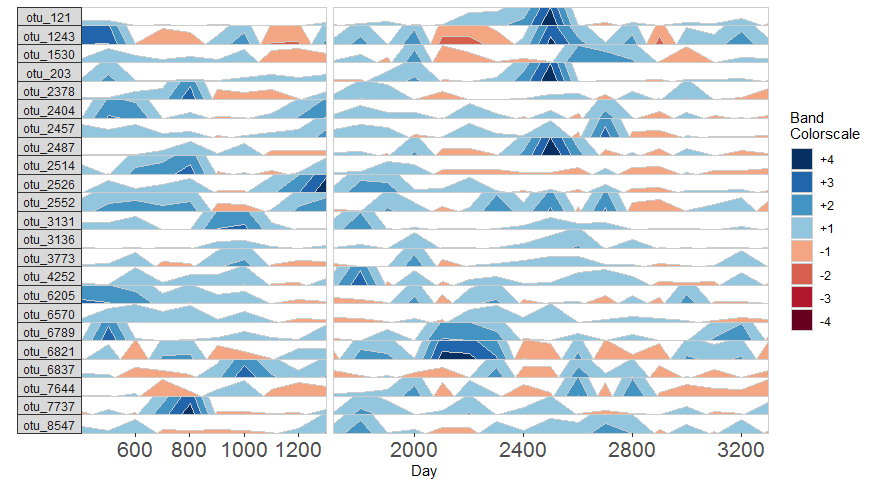
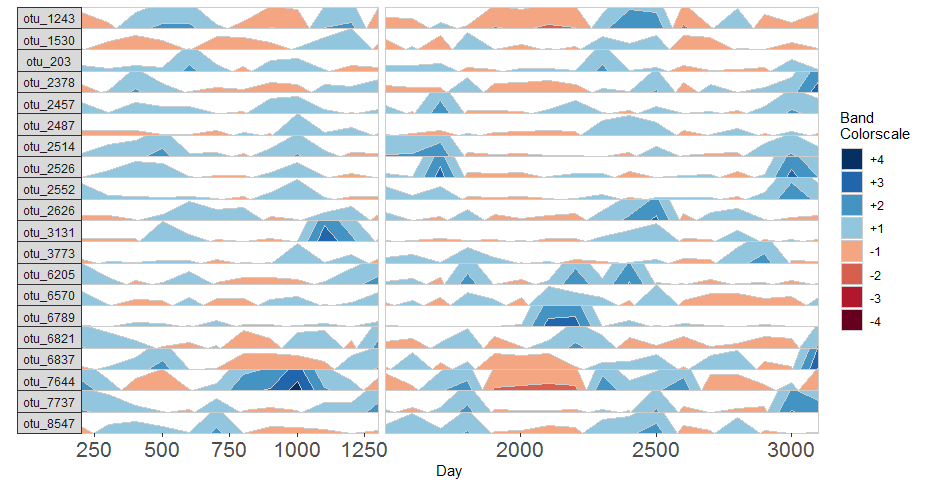
Reorganize 'Additional Modifications' and 'Irregular Data' sections of website

diff --git a/index.md b/index.md
@@ -278,12 +278,7 @@ paramList <- prepanel(otudata = dummyOTU, metadata = dummyMetadata, singleVarOTU
 
 horizonplot(paramList)
 
-## Select a subset of all subjects
-paramList <- prepanel(otudata = dummyOTU, metadata = dummyMetadata, singleVarOTU = "otu_1243", subj = c("subject_1", "subject_2", "subject_3"))
-
-horizonplot(paramList)
-
-## Subject facets will be arranged according to the order specified to `subj`
+## Select a subset of all subjects and arrange facet order
 paramList <- prepanel(otudata = dummyOTU, metadata = dummyMetadata, singleVarOTU = "otu_1243", subj = c("subject_2", "subject_1", "subject_3"))
 
 horizonplot(paramList)
@@ -300,9 +295,11 @@ Based on this graph from artificial data we might then infer that subjects 1, 2 
 
 ### Additional Modifications of the Horizon Plot
 
-We can add several modifications to the horizon plot to emphasize different aspects of our longitudinal data.  
+The origin value of an OTU defines its baseline, i.e. the base of the first positive band, where value=0. By default, the origin for each OTU is calculated as the median value of that OTU across all samples, so blue bands reflect abundance above the median, while red bands indicate abundance below the median. 4 positive and 4 negative bands are used, where band widths represent quartiles above and below the median relative to the extreme value for that OTU. This means that by default, if across all samples the median relative abundance of otu_121 was 10%, the maximum relative abundance of otu_121 in any sample was 30%, and the minimum relative abundance was 0%, then each band colorscale represents an abundance range of ((30-10)/4) = 5%. Thus, a band colorscale value of +2 for otu_121 at timepoint x indicates that otu_121 had a relative abundance within (min = 10 + (30-10)/4, max = 10 + 2*((30-10)/4)) = 15-20% at timepoint x, while a band colorscale value of -2 for otu_121 at timepoint y indicates that otu_121 had a relative abundance ranging from 0-5% at timepoint y. Since the distance between the maximum and the origin (30-10% = 20%) is greater than the distance between the minimum and the origin (10-0% = 10%) for otu_121, there are no timepoints at a band colorscale of -3 or -4. By scaling within each OTU, the dynamics of multiple OTUs that may vary in median abundance by orders of magnitude can be visualized on the same graph. 
 
-First, we change the number of positive bands to segment data into.
+However, we can add several modifications to the horizon plot to emphasize different aspects of our longitudinal data.  
+
+First, we change the number of positive bands into which data is segmented.
 
 ```
 ## Use three horizon bands 
@@ -315,7 +312,7 @@ horizonplot(paramList)
 
 Including more horizon bands will more precisely distinguish values and emphasize those at the highest ranges of magnitude. Using less bands will de-emphasize values at the extreme ends of the data.
 
-We can also change the origin value, which defines the baseline (i.e. value=0, the base of the first positive band) of horizon subplots. The sample values for each OTU will then be centered to this origin. We can supply this either as a constant, to set a fixed origin value for all OTUs, or as a function that operates on sample values, to evaluate a unique origin for each panel.
+We can also change the origin, the value at which all sample values will be centered. We can supply this either as a constant, to set a fixed origin value for all OTUs, or as a function that operates on sample values, to evaluate a unique origin for each panel.
 
 ```
 ## Origin as the mean absolute deviation of sample values
@@ -334,8 +331,6 @@ horizonplot(paramList)
 ```
 
 ![](assets/pics/plot_origin_fixed.png)
-
-By default, the origin is calculated as the median of all sample values, so areas in blue reflect abundance above the median, while areas in red indicate abundance below the median.
 
 Similarly, we can modify the band thickness, the height of each horizontal band denoted by a unique color, which determines the scale of a horizon subplot.
 
@@ -397,7 +392,7 @@ Since *otusample* is irregularly spaced, i.e. the distance of time between sampl
 
 ```
 ## Adjust data to a regular time interval of 100 days
-paramList <- prepanel(otusample, metadatasample, subj = "subject_1", regularInterval = 100)
+paramList <- prepanel(otusample, metadatasample, subj = "subject_2", regularInterval = 100)
 ```
 
 We can see the sample collection days starting from day 1 by viewing the `timestamps` variable from the output list of prepanel. This is the third element of the list (you can view components of the list in the horizonplot function documentation).
@@ -407,11 +402,12 @@ paramList[[3]]
 ```
 
 ```
-[1]    1  323  408  507  513  515  519  526  535  542  549  568  614  644  653  658  821  830  833 1073
-[21] 1193 1312 1661 1821 1982 1988 2002 2072 2100 2111 2252 2321 2341 2502 2503 2523 2541 2551 2604 2614
-[41] 2618 2621 2650 2665 2671 2679 2713 2735 2738 2755 2766 2777 2780 2797 2798 2800 2802 2804 2809 2816
-[61] 2825 2854 2901 2924 2931 2933 2987 3018 3020 3042 3045 3052 3054 3056 3070 3085 3136 3266 3299 3322
-[81] 3332
+[1]    1   68  261  391  486  514  517  523  526  529  531  535  542  563  570  618  638  640  668
+ [20]  675  697  796  800  858  872  879  883  885 1032 1052 1056 1056 1059 1108 1195 1206 1223 1439
+ [39] 1454 1593 1595 1613 1648 1674 1682 1705 1709 1720 1824 1892 1894 1966 1980 1985 1989 2089 2116
+ [58] 2253 2259 2306 2321 2322 2332 2461 2508 2524 2552 2601 2624 2672 2680 2692 2694 2748 2750 2771
+ [77] 2774 2778 2783 2799 2805 2810 2824 2844 2885 2932 2961 2965 2969 2991 3015 3019 3021 3049 3053
+ [96] 3055 3057 3071 3119 3137 3144 3147
 ```
 
 Each new value will be linear interpolated from the previous and subsequent timepoints in `timestamps`. We can then plot the regularly spaced data, and get a graph with an accurate timescale.
@@ -424,18 +420,18 @@ horizonplot(paramList)
 
 While this timescale is more accurate than simply plotting samples next to each other, it also introduces inaccuracy by interpolating across large timespans. Since our data contains large gaps in time between samples, regularizing data in this way could be misleading. We can reduce this inaccuracy by specifying the maximum amount of time without samples allowed to create an interpolated timepoint. 
 
-For this example, a new timepoint will be interpolated at day 201. The closest previous timepoint is day 1, and the closest subsequent timepoint is day 323, giving a total distance of 322 days without samples. If we set the maximum gap to 200 days, for example, then the timepoint at 201 will not be created. Instead, it will produce a break in the time axis, and data will be regularized separately on both sides of the break. This break is simulated by splitting the plot into two facets.
+For this example, a new timepoint will be interpolated at day 1401. The closest previous timepoint is day 1223, and the closest subsequent timepoint is day 1439, giving a distance of 178 days from the furthest adjacent timepoint. If we set the maximum gap to 150 days, for example, then the timepoint at 1401 will not be created. Instead, it will produce a break in the time axis, and data will be regularized separately on both sides of the break. This break is simulated by splitting the plot into two facets.
 
 ```
-## Set maxGap to 200
-paramList <- prepanel(otusample, metadatasample, subj = "subject_1", regularInterval = 100, maxGap = 200)
+## Set maxGap to 150
+paramList <- prepanel(otusample, metadatasample, subj = "subject_2", regularInterval = 100, maxGap = 150)
 
 horizonplot(paramList)
 ```
 
 ![](assets/pics/plot_max_gap.png)
 
-If many breaks in the time axis are created, this could result in facets with very few samples. For example, the first facet contains only one sample, at day 1. This is not shown however, as facets with less than two samples are removed by default. You can set the minimum number of samples required to include a facet.
+If many breaks in the time axis are created, this could result in facets with very few samples. For example, if maxGap = 200 and the first two samples are at days 1 and 323, the first facet would contain only one sample (day 1). You can set the minimum number of samples required to include a facet (default = 2 samples).
 
 ```
 ## Create a plot from subject 2
